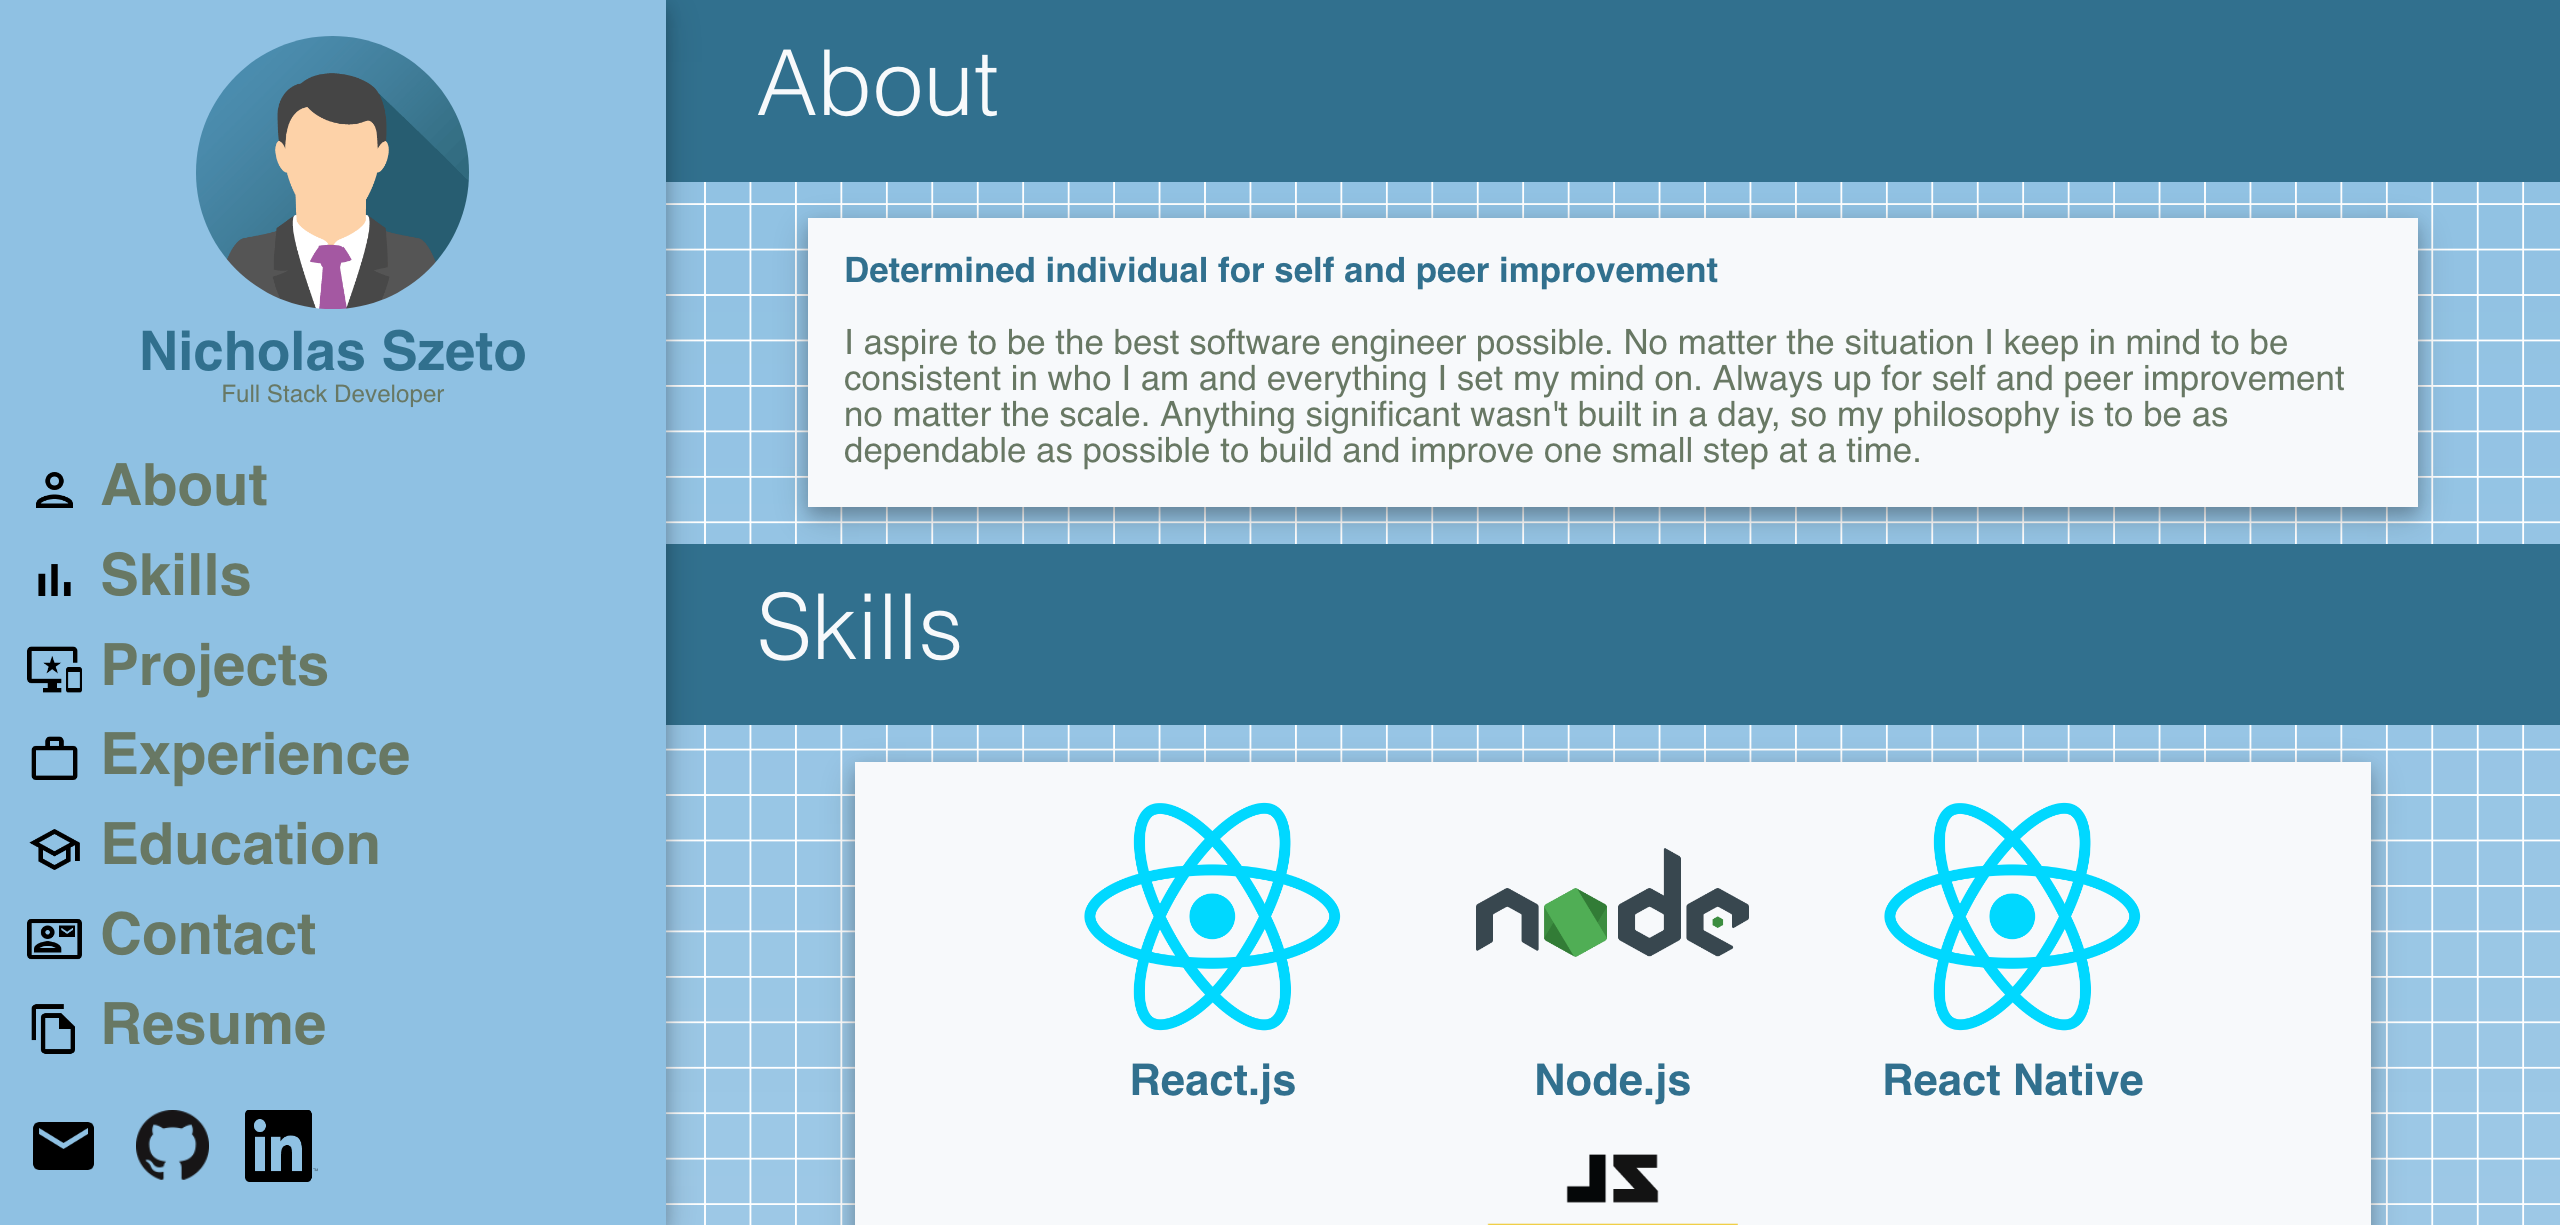
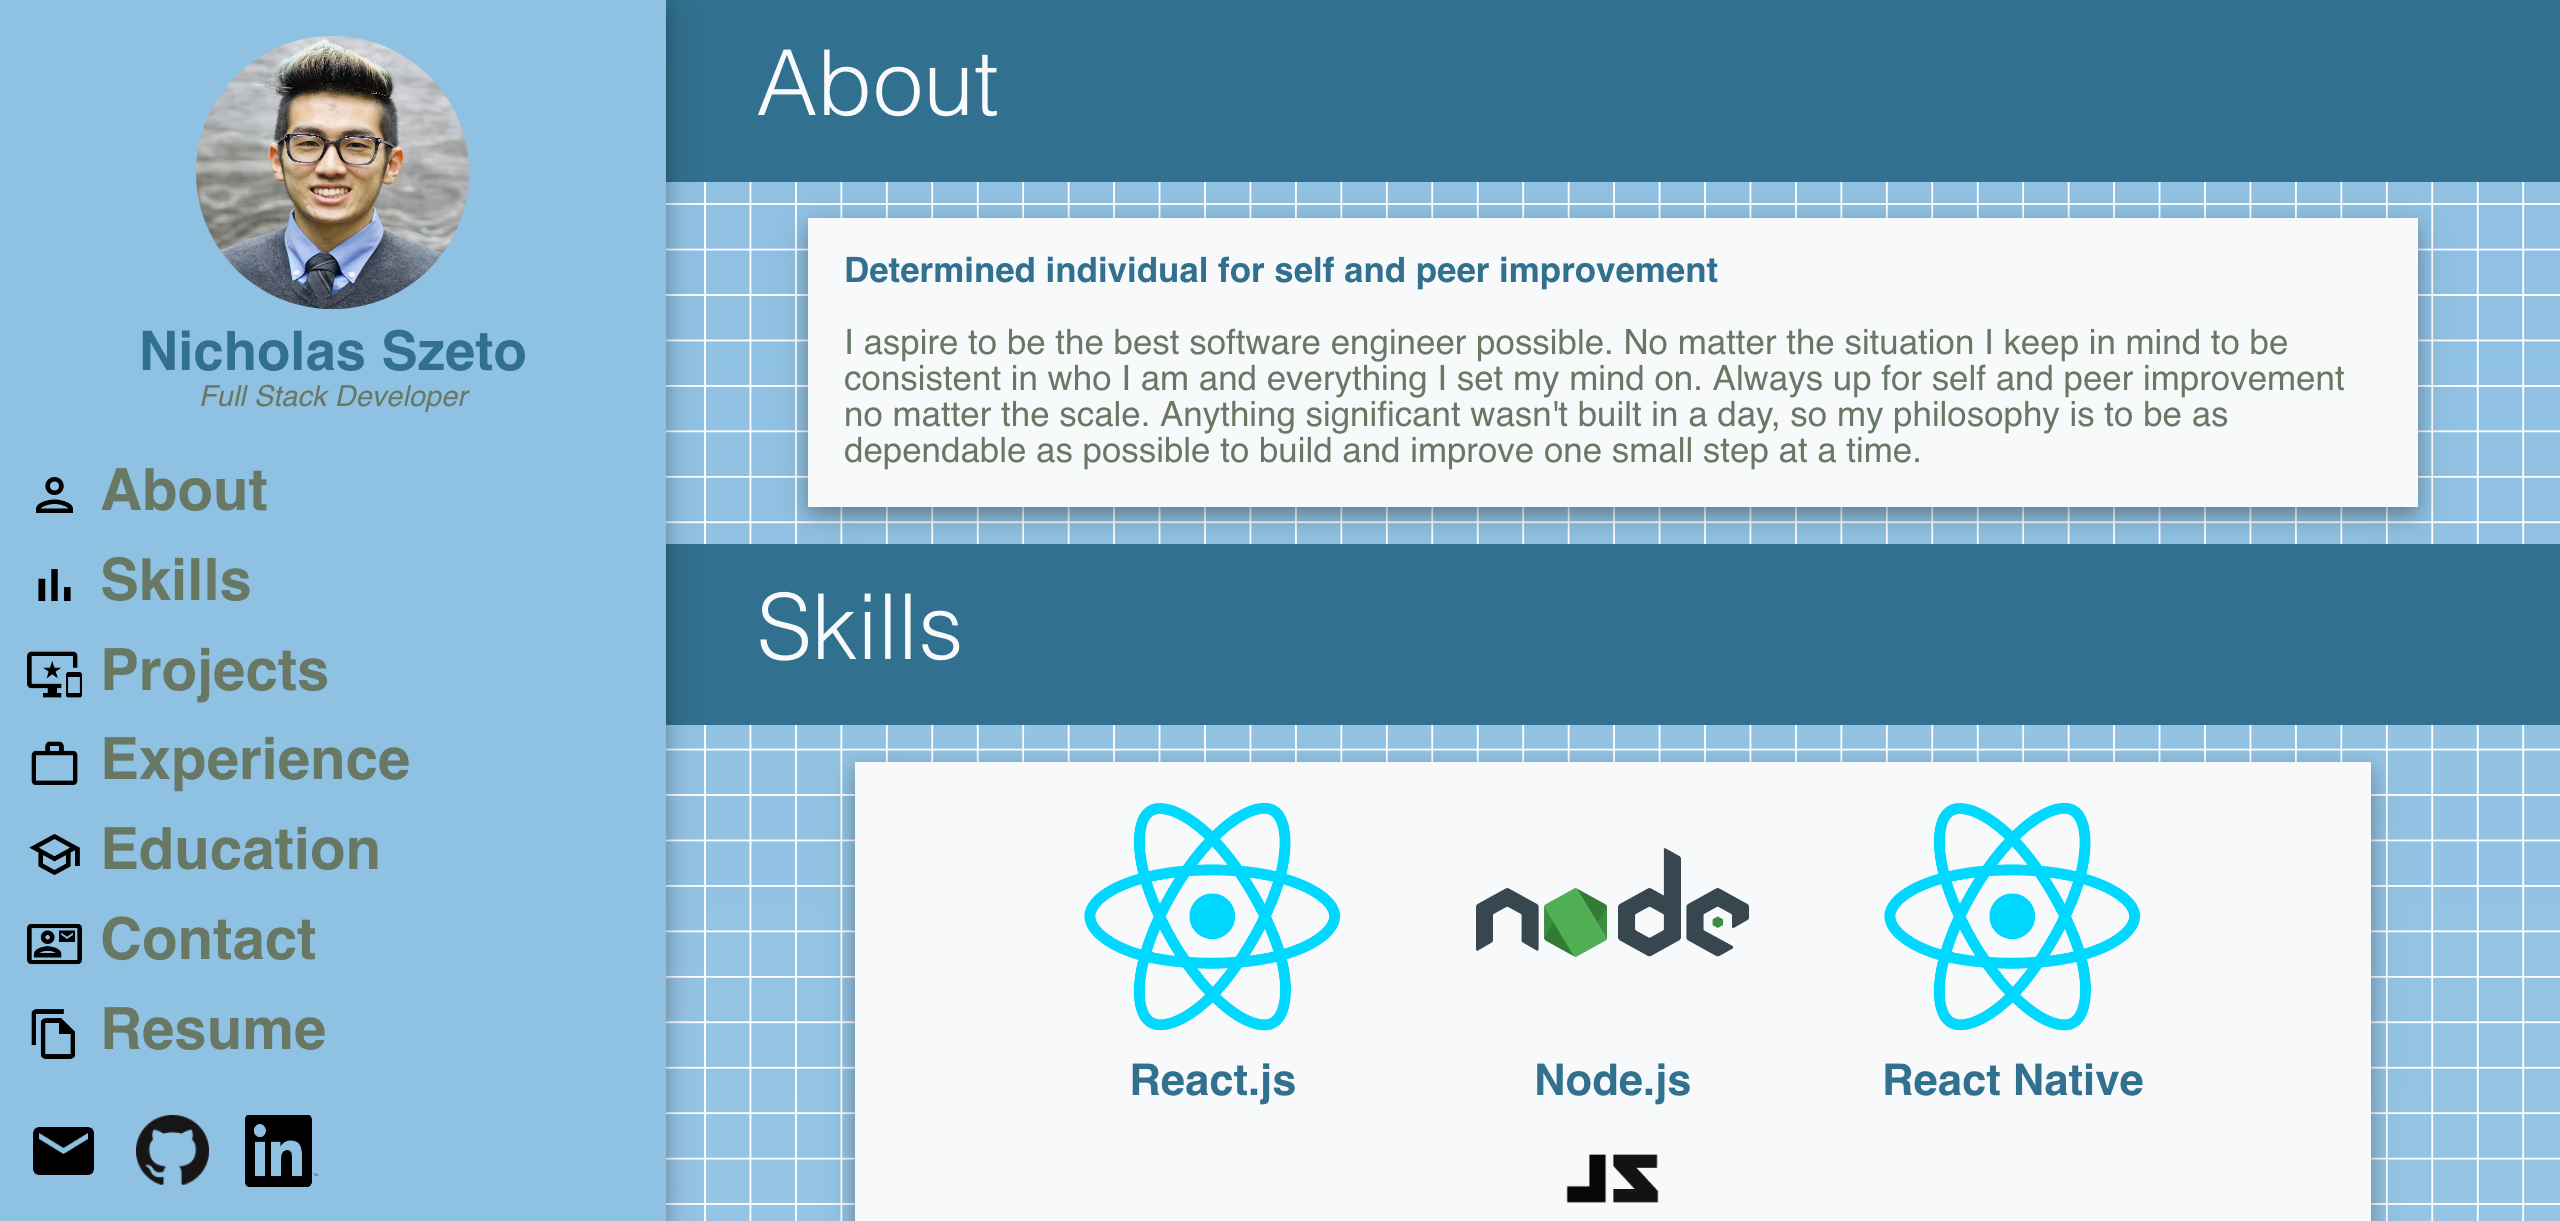
added real profile picture and removed paths for old static images

diff --git a/data/Contact.js b/data/Contact.js
@@ -1,19 +1,19 @@
 const CONTACT_DATA = [
   {
     text: "Email",
-    iconURI: "./static/MailIcon.png",
+    iconURI: "./static/Contact Icons/MailIcon.png",
     redirectLink: "mailto:NicholasYLSzeto@gmail.com",
     contactInformation: "NicholasYLSzeto@gmail.com"
   },
   {
     text: "GitHub",
-    iconURI: "./static/GitHubIcon.png",
+    iconURI: "./static/Contact Icons/GitHubIcon.png",
     redirectLink: "https://github.com/niszeto/",
     contactInformation: "https://github.com/niszeto/"
   },
   {
     text: "LinkedIn",
-    iconURI: "./static/LinkedInIcon.png",
+    iconURI: "./static/Contact Icons/LinkedInIcon.png",
     redirectLink: "https://www.linkedin.com/in/nicholas-szeto/",
     contactInformation: "https://www.linkedin.com/in/nicholas-szeto/"
   }

diff --git a/components/Avatar.js b/components/Avatar.js
@@ -5,13 +5,12 @@ const Avatar = props => {
 
   return (
     <div className="avatar-container">
-      <img src={imageURI} />
+      <img className="margin-ten" src={imageURI} />
       <strong className="font">{name}</strong>
-      <small className="font font-color">{caption}</small>
+      <em className="font font-color">{caption}</em>
       <style jsx>{`
         .avatar-container {
           display: flex;
-          // flex: 2;
           flex-direction: column;
           justify-content: center;
           align-items: center;
@@ -21,7 +20,6 @@ const Avatar = props => {
           height: 150px;
           width: 150px;
           border-radius: 50%;
-          margin: 10px;
         }
 
         strong {

diff --git a/data/Experience.js b/data/Experience.js
@@ -1,6 +1,6 @@
 const EXPERIENCE_DATA = [
   {
-    logo: "./static/SFSULogo.jpeg",
+    logo: "./static/Company Logo/SFSULogo.jpeg",
     name: "San Francisco State University",
     role: "PINC Mentor",
     website: "https://www.sfsu.edu/",
@@ -15,7 +15,7 @@ const EXPERIENCE_DATA = [
     state: "CA"
   },
   {
-    logo: "./static/SFSULogo.jpeg",
+    logo: "./static/Company Logo/SFSULogo.jpeg",
     name: "San Francisco State University",
     role: "Instructional Student Assistant ",
     website: "https://www.sfsu.edu/",

diff --git a/data/Education.js b/data/Education.js
@@ -1,6 +1,6 @@
 const EDUCATION_DATA = [
   {
-    logo: "./static/SFSULogo.jpeg",
+    logo: "./static/Education Logo/SFSULogo.jpeg",
     name: "San Francisco State University",
     website: "https://www.sfsu.edu/",
     city: "San Francisco",

diff --git a/data/Project.js b/data/Project.js
@@ -1,6 +1,6 @@
 const PROJECTS_DATA = [
   {
-    title: "Portfolio Website",
+    title: "Portfolio",
     image: "./static/Project Screenshots/PortfolioWebsite.png",
     links: [],
     descriptions: [

diff --git a/data/Avatar.js b/data/Avatar.js
@@ -1,6 +1,6 @@
 const AVATAR_DATA = {
   name: "Nicholas Szeto",
-  imageURI: "./static/profile.png",
+  imageURI: "./static/Profile.jpg",
   caption: "Full Stack Developer"
 };
 
